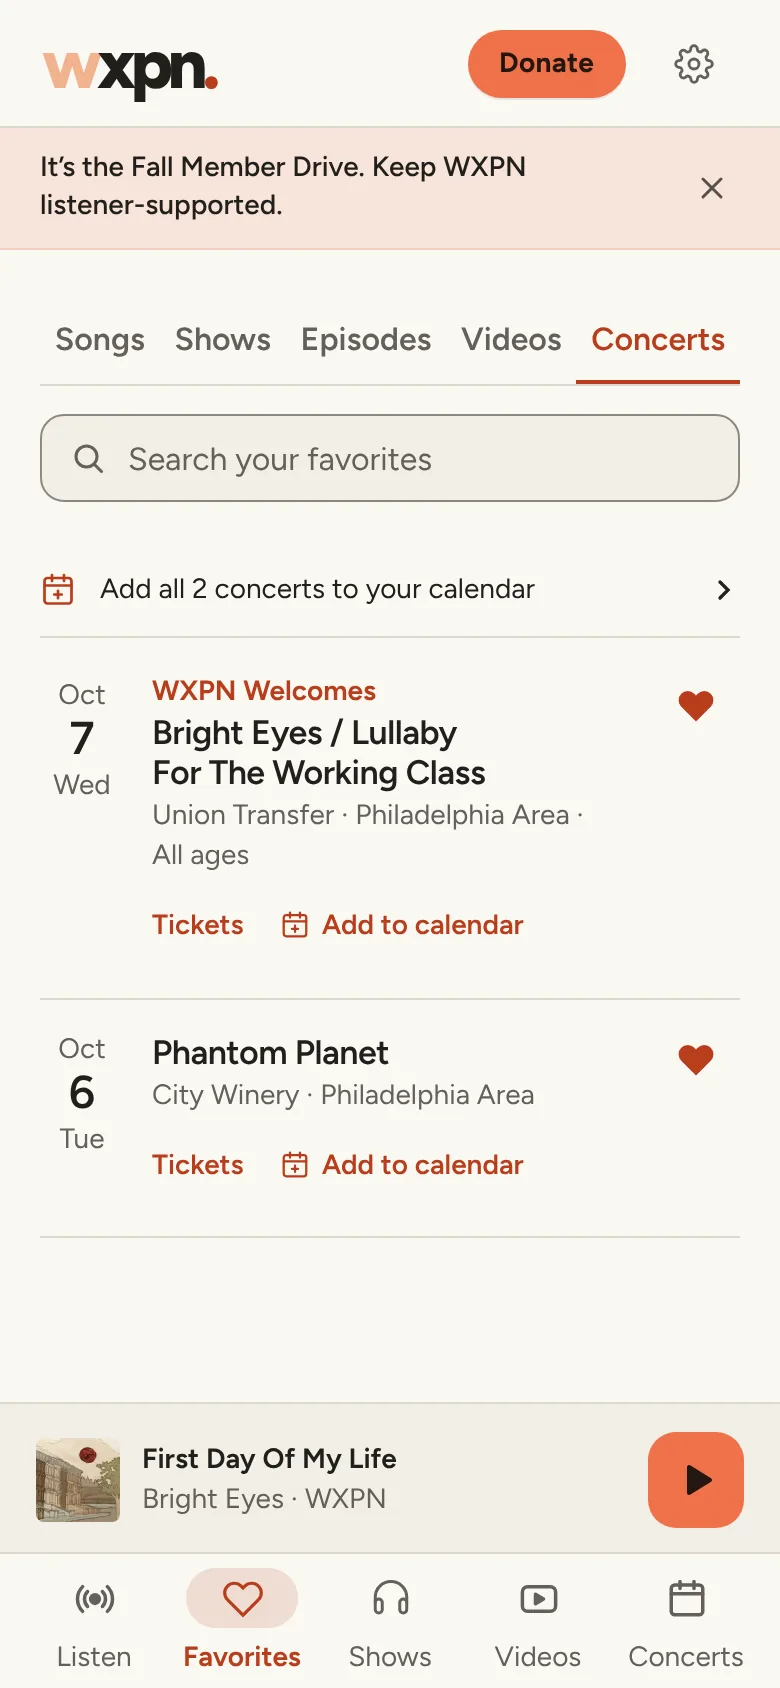
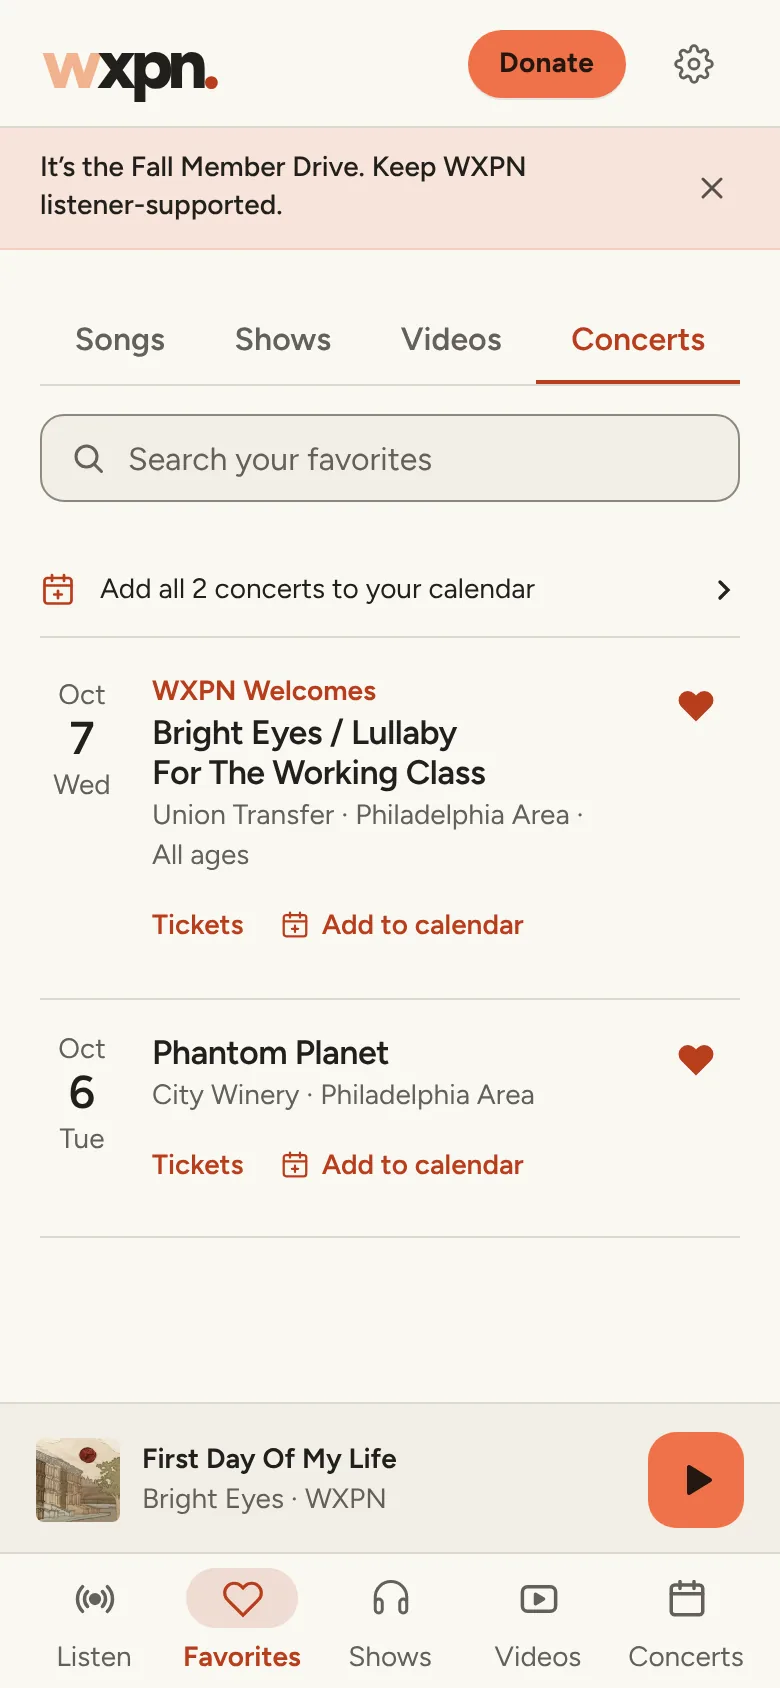
Favorites: shows and their saved episodes in one Shows tab
Each show the listener follows or has saved episodes of leads a short
list of those episodes. Its heart is empty when only episodes are saved,
so following the show is one tap from the episodes that show the interest.

Claude-Session: https://claude.ai/code/session_017ZBBHEgcGx725L57MVedbA

Changed region(s): [[0.0615, 0.1848, 0.9231, 0.2156]]

diff --git a/screens/LibraryScreen.jsx b/screens/LibraryScreen.jsx
@@ -1,5 +1,5 @@
 import { useState } from "react";
-import { Icon, Segmented, Empty, SearchField, shareText } from "../ui.jsx";
+import { Art, Icon, Segmented, Empty, SearchField, shareText } from "../ui.jsx";
 import { SHOWS } from "../catalog.js";
 import { useFavoriteItems } from "../favorites.js";
 import { easternToday } from "../concerts.js";
@@ -8,11 +8,12 @@ import { VideoCard } from "../components/VideoCard.jsx";
 import { EpisodeRow } from "../components/Archive.jsx";
 import { hasLeftArchive, useArchiveState } from "../archive.js";
 import { showToast } from "../toast.js";
-import { TrackRow, ShowCard, SaveButton } from "../components/MusicRows.jsx";
+import { TrackRow, SaveButton } from "../components/MusicRows.jsx";
 import { ConcertRow } from "../components/ConcertRow.jsx";
 import { PlaylistSyncPrompt } from "../components/PlaylistSync.jsx";
 import { calendarIsNative, downloadIcs } from "../calendar.js";
 import { useFeatures } from "../features.js";
+import { savedShowGroups } from "../saved-shows.js";
 
 // Empty-state copy and the screen each category's call to action opens.
 const EMPTY = {
@@ -26,13 +27,7 @@ const EMPTY = {
     icon: "headphones",
     action: "Explore shows",
     target: "shows",
-    text: "Follow a show to keep its schedule here and get reminders.",
-  },
-  episodes: {
-    icon: "headphones",
-    action: "Explore shows",
-    target: "shows",
-    text: "Save an episode from the archive to listen later.",
+    text: "Follow a show to keep its schedule here and get reminders, or save an episode to listen later.",
   },
   concerts: {
     icon: "navConcerts",
@@ -63,10 +58,18 @@ export function LibraryScreen({ onOpenShow, onOpenVideo, onNavigate }) {
 
   const archive = useArchiveState();
   const features = useFeatures();
+  const archiveOn = ARCHIVE_ENABLED && features.archive;
+  const q = query.trim().toLowerCase();
+  // Followed shows and saved episodes, together: one list per show.
+  const showGroups = savedShowGroups({
+    followed: shows,
+    episodes: archiveOn ? episodes : [],
+    catalog: SHOWS,
+    query: q,
+  });
   const items = {
     songs,
-    shows,
-    ...(ARCHIVE_ENABLED && features.archive ? { episodes } : {}),
+    shows: showGroups,
     ...(VIDEOS_ENABLED && features.videos ? { videos } : {}),
     // Saved with their details, so they show even while the feed is down;
     // past dates drop off.
@@ -75,11 +78,14 @@ export function LibraryScreen({ onOpenShow, onOpenVideo, onNavigate }) {
       : {}),
   };
   const category = items[type] ? type : "songs";
-  const q = query.trim().toLowerCase();
-  const filtered = items[category].filter((item) => !q || searchText(item).includes(q));
+  // Show groups arrive searched already.
+  const filtered =
+    category === "shows"
+      ? showGroups
+      : items[category].filter((item) => !q || searchText(item).includes(q));
   const empty = EMPTY[category];
   // Until something is saved, search has nothing to work on.
-  const anything = Object.values(items).some((list) => list.length);
+  const anything = Boolean(q) || Object.values(items).some((list) => list.length);
 
   const shareSongs = async () =>
     showToast(
@@ -145,12 +151,14 @@ export function LibraryScreen({ onOpenShow, onOpenVideo, onNavigate }) {
           </button>
         </>
       ) : category === "shows" ? (
-        <div className="show-grid all-shows">
-          {filtered.map((s) => (
-            <div className="saved-show" key={s.id}>
-              <ShowCard show={SHOWS[s.id] || s} onOpen={onOpenShow} />
-              <SaveButton type="shows" item={s} name={s.name} />
-            </div>
+        <div className="archive-list saved-shows">
+          {filtered.map((group) => (
+            <SavedShow
+              key={group.id}
+              group={group}
+              gone={(ep) => hasLeftArchive(archive, ep)}
+              onOpenShow={onOpenShow}
+            />
           ))}
         </div>
       ) : category === "concerts" ? (
@@ -164,16 +172,41 @@ export function LibraryScreen({ onOpenShow, onOpenVideo, onNavigate }) {
             </div>
           ))}
         </div>
-      ) : (
-        filtered.map((ep) => (
-          <EpisodeRow
-            key={ep.id}
-            episode={ep}
-            gone={hasLeftArchive(archive, ep)}
-            onOpen={(e) => onOpenShow(e.show || e.showId, e.id)}
-          />
-        ))
-      )}
+      ) : null}
     </>
+  );
+}
+
+// One show in Favorites › Shows: the show at the head, its heart full if
+// it's followed, empty if only episodes are saved, then those episodes.
+function SavedShow({ group, gone, onOpenShow }) {
+  const { id, show, followed, episodes } = group;
+  const headId = `saved-show-${id}`;
+  return (
+    <section className="archive-show" aria-labelledby={headId}>
+      <div className="archive-show-head saved-show-head">
+        <button className="saved-show-open" onClick={() => onOpenShow(id)}>
+          <Art src={show.img} alt="" loading="lazy" />
+          <span>
+            <strong id={headId}>{show.name}</strong>
+            <small>
+              {followed
+                ? [show.times?.[0], show.host].filter(Boolean).join(" · ") || "Following"
+                : "Not following"}
+            </small>
+          </span>
+        </button>
+        <SaveButton type="shows" item={{ ...show, id }} name={show.name} verb="Follow" />
+      </div>
+      {episodes.map((ep) => (
+        <EpisodeRow
+          key={ep.id}
+          episode={ep}
+          showShow={false}
+          gone={gone(ep)}
+          onOpen={(e) => onOpenShow(e.show || e.showId || id, e.id)}
+        />
+      ))}
+    </section>
   );
 }

diff --git a/design/screens/index.html b/design/screens/index.html
@@ -635,10 +635,28 @@
                 width="390"
                 height="844"
                 loading="lazy"
-                alt="Saved songs, each heart in a color from its artwork, under tabs for Songs, Shows, Episodes, Videos and Concerts, and a prompt to connect a music service."
+                alt="Saved songs, each heart in a color from its artwork, under tabs for Songs, Shows, Videos and Concerts, and a prompt to connect a music service."
               />
             </div>
             <div class="caption"><h3>Favorites</h3></div>
+          </li>
+          <li class="shot">
+            <div class="device">
+              <img
+                data-shot="phone-fav-shows"
+                width="390"
+                height="844"
+                loading="lazy"
+                alt="Favorites, Shows tab: Funky Friday with an empty heart and Not following, above its two saved episodes; then World Cafe, followed, with its air time and its one saved episode."
+              />
+            </div>
+            <div class="caption">
+              <h3>Saved shows</h3>
+              <p>
+                Each show leads its saved episodes. An empty heart means it isn’t followed yet: one
+                tap follows it.
+              </p>
+            </div>
           </li>
           <li class="shot">
             <div class="device">
@@ -647,7 +665,7 @@
                 width="390"
                 height="844"
                 loading="lazy"
-                alt="Favorites, Videos tab: tabs for Songs, Shows, Episodes, Videos and Concerts without counts, then three saved sessions with thumbnails and filled hearts: Iron and Wine, Julia Jacklin, jasmine.4.t."
+                alt="Favorites, Videos tab: tabs for Songs, Shows, Videos and Concerts without counts, then three saved sessions with thumbnails and filled hearts: Iron and Wine, Julia Jacklin, jasmine.4.t."
               />
             </div>
             <div class="caption">
@@ -1076,6 +1094,8 @@
         "phone-drive-light": "img/phone-drive-light.webp",
         "phone-fav-concerts-dark": "img/phone-fav-concerts-dark.webp",
         "phone-fav-concerts-light": "img/phone-fav-concerts-light.webp",
+        "phone-fav-shows-dark": "img/phone-fav-shows-dark.webp",
+        "phone-fav-shows-light": "img/phone-fav-shows-light.webp",
         "phone-favorites-dark": "img/phone-favorites-dark.webp",
         "phone-favorites-light": "img/phone-favorites-light.webp",
         "phone-listen-dark": "img/phone-listen-dark.webp",

diff --git a/saved-shows.js b/saved-shows.js
@@ -1,0 +1,53 @@
+// Favorites › Shows: each show the listener follows or has saved episodes
+// of, as a short list with the show at its head. A show whose episodes are
+// saved but which isn't followed still gets a group, its heart empty, so
+// following it is one tap from the episodes that show the interest.
+
+const lower = (value) => String(value || "").toLowerCase();
+
+// Groups, most recently saved first. A group's place comes from its newest
+// saved episode (or, with none, from when the show was followed), so
+// following or unfollowing from the list never moves the group under the
+// listener's finger. Pure, so it can be tested.
+export function savedShowGroups({ followed = [], episodes = [], catalog = {}, query = "" }) {
+  const groups = new Map();
+  const group = (id) => {
+    if (!groups.has(id)) groups.set(id, { id, show: null, followed: false, episodes: [], at: 0 });
+    return groups.get(id);
+  };
+  for (const show of followed) {
+    const g = group(show.id);
+    g.followed = true;
+    g.show = catalog[show.id] || show;
+    g.followedAt = show.savedAt || 0;
+  }
+  for (const episode of episodes) {
+    const id = episode.show || episode.showId;
+    if (!id) continue;
+    const g = group(id);
+    g.episodes.push(episode);
+    g.at = Math.max(g.at, episode.savedAt || 0);
+    g.show ||= catalog[id] || {
+      id,
+      name: episode.showName || "WXPN",
+      img: episode.image || episode.img,
+    };
+  }
+  const q = lower(query).trim();
+  const list = [];
+  for (const g of groups.values()) {
+    // Within a show, newest broadcast first, like the archive.
+    g.episodes.sort((a, b) => (Date.parse(b.date) || 0) - (Date.parse(a.date) || 0));
+    if (!g.episodes.length) g.at = g.followedAt || 0;
+    delete g.followedAt;
+    if (q && !lower(g.show.name).includes(q)) {
+      // A search that misses the show's name keeps only the episodes it hits.
+      g.episodes = g.episodes.filter((e) =>
+        `${lower(e.title)} ${lower(e.feature)} ${lower(e.summary)}`.includes(q),
+      );
+      if (!g.episodes.length) continue;
+    }
+    list.push(g);
+  }
+  return list.sort((a, b) => b.at - a.at);
+}

diff --git a/components/MusicRows.jsx b/components/MusicRows.jsx
@@ -73,7 +73,15 @@ function firstSaveHint(type) {
 
 // A heart toggle for any saveable item: a song, show, episode, concert or
 // video. Once saved, the heart takes a color from the item's artwork.
-export function SaveButton({ type, item, name, className = "icon-button", children, onToggle }) {
+export function SaveButton({
+  type,
+  item,
+  name,
+  verb = "Save",
+  className = "icon-button",
+  children,
+  onToggle,
+}) {
   const saved = useIsFavorite(type, item);
   const { art, preset } = tintSource(type, item);
   const tint = useArtTint(saved ? art : null, saved ? preset : null);
@@ -85,7 +93,7 @@ export function SaveButton({ type, item, name, className = "icon-button", childr
       // A heart alone keeps one name and says on/off with aria-pressed; a
       // button with words ("Following") says it in the words instead.
       aria-pressed={children ? undefined : saved}
-      aria-label={children ? undefined : `Save ${name}`}
+      aria-label={children ? undefined : `${verb} ${name}`}
       data-pop={pop || undefined}
       data-tinted={tint ? "" : undefined}
       style={tint ? { "--tint-light": tint.light, "--tint-dark": tint.dark } : undefined}

diff --git a/styles/archive.css b/styles/archive.css
@@ -49,6 +49,36 @@
   flex-shrink: 0;
   color: var(--muted);
 }
+/* Favorites › Shows: the head opens the show; the heart beside it follows
+   it. An empty heart over saved episodes is the nudge to follow. */
+.saved-show-head {
+  gap: 4px;
+  padding-bottom: 8px;
+}
+.saved-show-open {
+  flex: 1;
+  min-width: 0;
+  display: flex;
+  align-items: center;
+  gap: 14px;
+  text-align: left;
+}
+.saved-show-open > img {
+  width: 52px;
+  height: 52px;
+  flex-shrink: 0;
+  border-radius: 8px;
+  object-fit: cover;
+}
+.saved-show-open > span {
+  flex: 1;
+  min-width: 0;
+  display: grid;
+  gap: 2px;
+}
+.saved-shows .archive-show:last-child {
+  margin-bottom: 8px;
+}
 .archive-more {
   margin-top: 6px;
 }

diff --git a/styles/controls.css b/styles/controls.css
@@ -257,17 +257,3 @@ h1.sr-only + :is(.toolbar, .concert-filters) {
   font-size: 1rem;
   font-weight: 600;
 }
-.saved-show {
-  position: relative;
-}
-.saved-show > .icon-button {
-  position: absolute;
-  right: 0;
-  bottom: 0;
-}
-.saved-show .show-card {
-  width: 100%;
-}
-.saved-show .show-card-when {
-  padding-right: 36px;
-}
